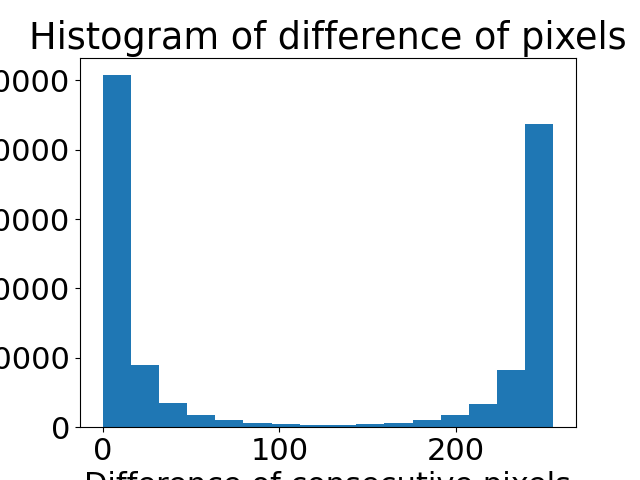
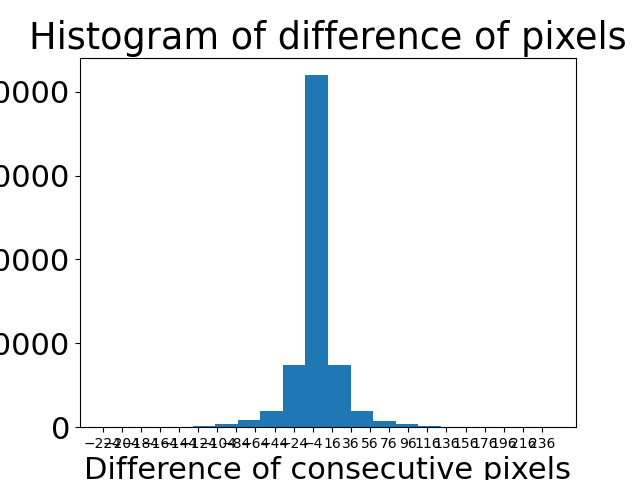
binary search

diff --git a/assignment8/problem1c.py b/assignment8/problem1c.py
@@ -36,11 +36,16 @@ plt.show()
 # Write code for finding histogram of difference of pixel's intensity
 # with its left neighbour here:
 diff=[]
-pixels2D=pixels2D.flatten()
-for i in range(1,len(pixels2D)):
-    diff.append(pixels2D[i]-pixels2D[i-1])
-plt.hist(diff,bins=16)
+for row in pixels2D:
+    for i in range(len (row)):
+        if i==0 :
+            diff.append(row[i])
+        else:
+            diff.append(int(row[i])-int(row[i-1]))
+xaxis=[i for i in range (min(diff),max(diff),20)]
+plt.hist(diff,bins=20)
 plt.xlabel("Difference of consecutive pixels")
+plt.xticks(xaxis,fontsize=10)
 plt.ylabel("Frequency")
 plt.title("Histogram of difference of pixels")
 plt.savefig("problem1cii.png")

diff --git a/assignment8/problem2.py b/assignment8/problem2.py
@@ -1,0 +1,30 @@
+import sys
+if len(sys.argv) != 2:
+    print("Usage: python3 problem2.py <filename>")
+    exit()
+fileName=sys.argv[1]
+
+try:
+    with open (fileName,"r") as f :
+        lines=f.readlines()
+except:
+    print("File not found")
+    exit()
+
+
+value=int(lines[0].strip())
+arr = [int(i) for i in lines[1].split()]
+
+def binary_search(arr, value):
+    low = 0
+    high = len(arr) - 1
+    mid = 0
+    while low <= high:
+        mid = (high + low) // 2
+        if arr[mid] < value:
+            low = mid + 1
+        elif arr[mid] > value:
+            high = mid - 1
+        else:
+            return mid
+    return -1
